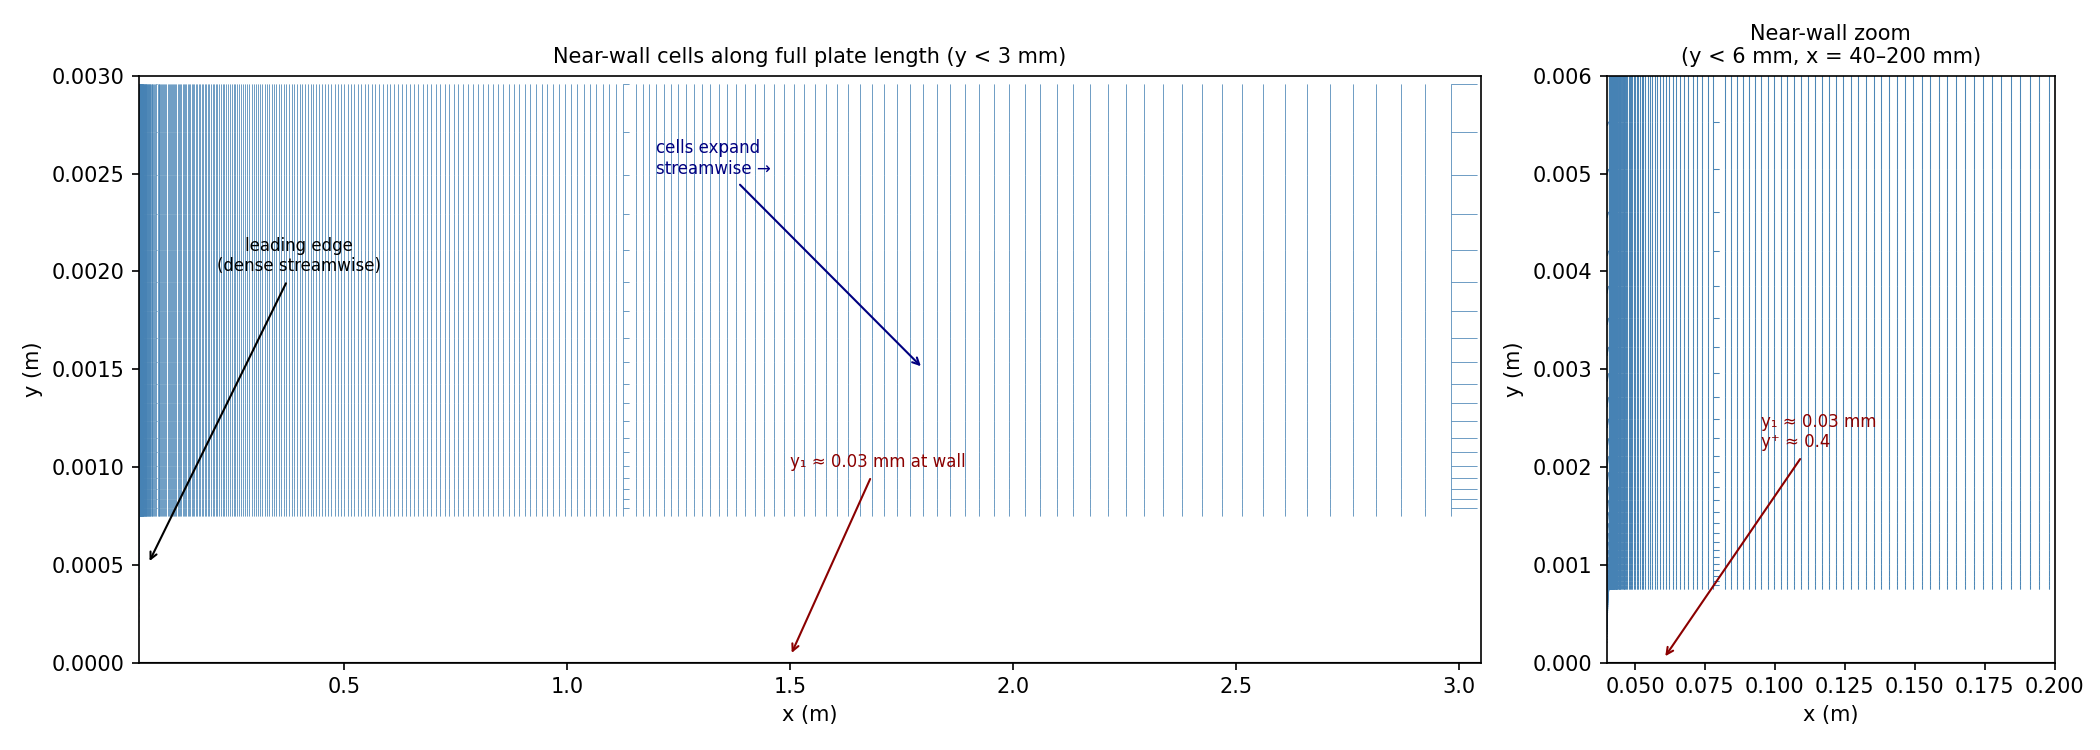
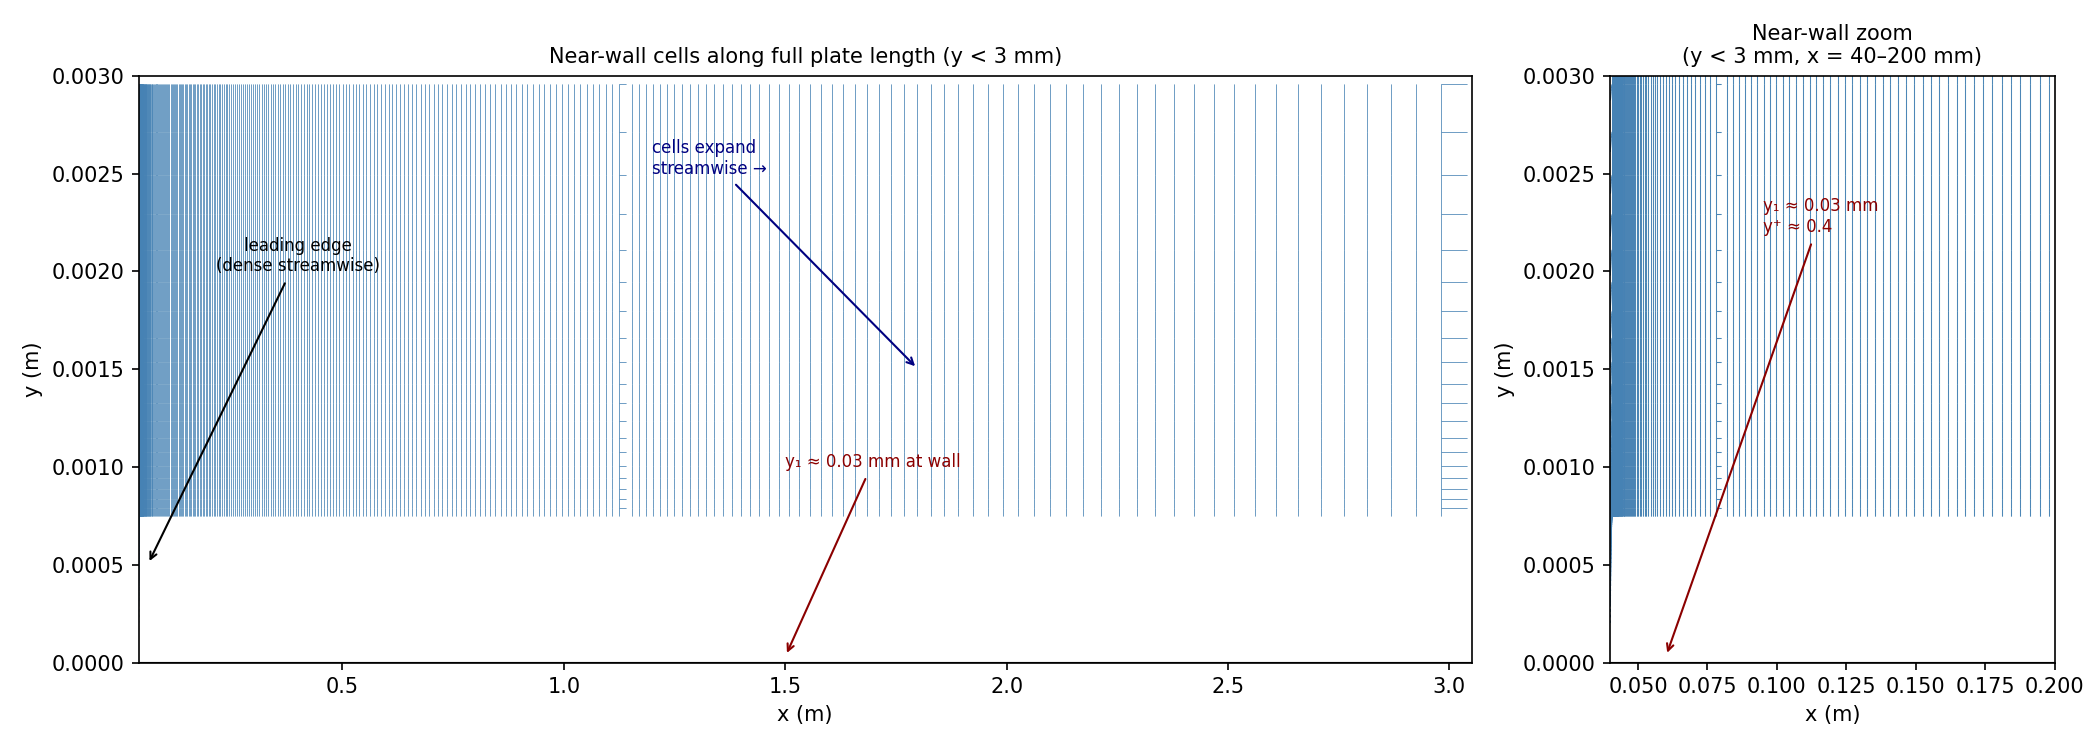
Fix mesh plot: match y-ranges to eliminate whitespace

diff --git a/render_mesh.py b/render_mesh.py
@@ -80,10 +80,10 @@ segs_zoom = cell_edges(mesh, pts, z_mid,
 lc2 = mc.LineCollection(segs_zoom, linewidths=0.5, colors="steelblue", alpha=0.8)
 axes[1].add_collection(lc2)
 axes[1].set_xlim(0.04, 0.20)
-axes[1].set_ylim(0, 0.006)
+axes[1].set_ylim(0, 0.003)
 axes[1].set_xlabel("x (m)", fontsize=10)
 axes[1].set_ylabel("y (m)", fontsize=10)
-axes[1].set_title("Near-wall zoom\n(y < 6 mm, x = 40–200 mm)", fontsize=10)
+axes[1].set_title("Near-wall zoom\n(y < 3 mm, x = 40–200 mm)", fontsize=10)
 axes[1].axhline(0, color="k", lw=1.5)
 axes[1].annotate("y₁ ≈ 0.03 mm\ny⁺ ≈ 0.4",
                   xy=(0.06, 0.00003), xytext=(0.095, 0.0022),